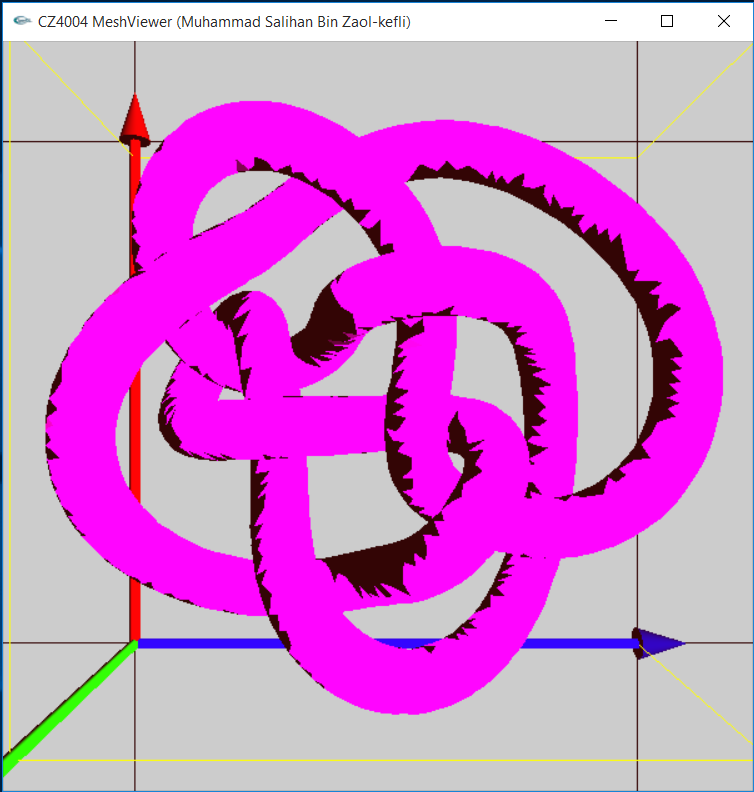
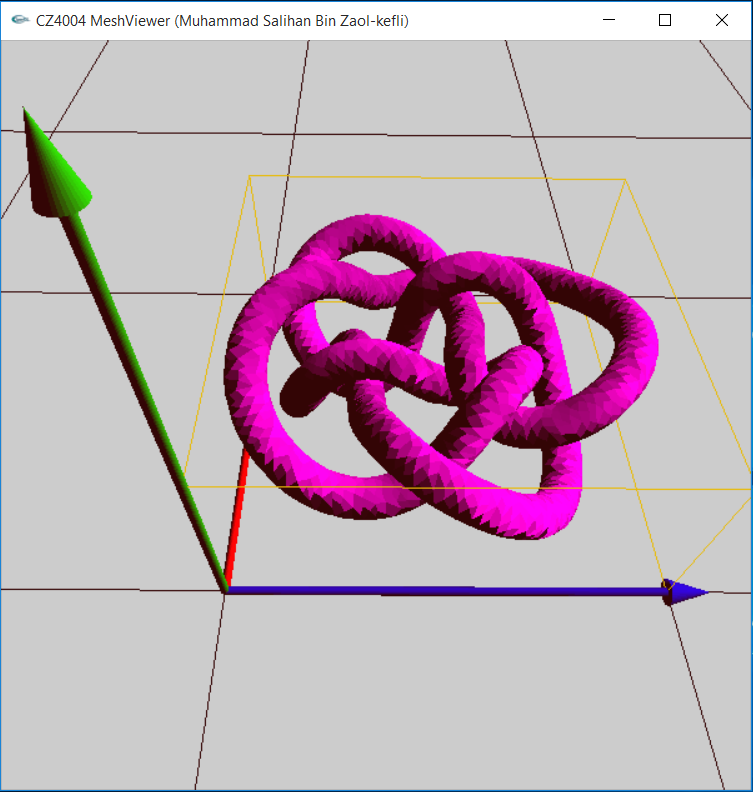
Make white_light vales to be non-adjustable and only 1.0f, rename aFaces map to adjFaces, enable GL_NORMALIZE in Flat and Smooth shading rendering, remove light brightness/intensity control, add new screenshots for flat and smooth shading

diff --git a/MyMeshViewer/Main.cpp b/MyMeshViewer/Main.cpp
@@ -39,8 +39,8 @@ void renderScene()
 	glClear(GL_COLOR_BUFFER_BIT | GL_DEPTH_BUFFER_BIT);
 
 	//Setup OpenGL lighting
-	GLfloat light_position[] = { 5.0f, 1.0f, 5.0f, 0.0f };											//light position
-	GLfloat white_light[] = { whiteLightValue, whiteLightValue, whiteLightValue, whiteLightValue };	//light color
+	GLfloat light_position[] = { 5.0f, 1.0f, 5.0f, 0.0f };		//light position
+	GLfloat white_light[] = { 1.0f, 1.0f, 1.0f, 1.0f };			//light color
 	GLfloat lmodel_ambient[] = { 1.0f, 0.1f, 0.1f, 1.0f };
 	glLightfv(GL_LIGHT0, GL_POSITION, light_position);
 	glLightfv(GL_LIGHT0, GL_DIFFUSE, white_light);
@@ -218,7 +218,7 @@ void initHEMaps()
 			HE_edges[make_pair(f->v1->index, f->v2->index)] = edge;
 
 		//add face to vector of adjacent faces for v1
-		aFaces[f->v1->index].push_back(f);
+		adjFaces[f->v1->index].push_back(f);
 
 		//2nd edge
 		HE_edge* next = new HE_edge();
@@ -242,7 +242,7 @@ void initHEMaps()
 			HE_edges[make_pair(f->v2->index, f->v3->index)] = next;
 
 		//add face to vector of adjacent faces for v2
-		aFaces[f->v2->index].push_back(f);
+		adjFaces[f->v2->index].push_back(f);
 
 		//3rd edge
 		HE_edge* prev = new HE_edge();
@@ -266,7 +266,7 @@ void initHEMaps()
 			HE_edges[make_pair(f->v3->index, f->v1->index)] = prev;
 
 		//add face to vector of adjacent faces for v3
-		aFaces[f->v3->index].push_back(f);
+		adjFaces[f->v3->index].push_back(f);
 
 		//Link up 1st, 2nd, and 3rd edges with each other
 		edge->next = next;
@@ -382,7 +382,7 @@ vector<Face*> findAdjFaces(Vertex* v)
 	}
 	*/
 
-	return aFaces[v->index];
+	return adjFaces[v->index];
 }
 
 //Function to calculate the area of each face
@@ -476,7 +476,7 @@ void clearData()
 	HE_verts.clear();
 	HE_faces.clear();
 	HE_edges.clear();
-	aFaces.clear();
+	adjFaces.clear();
 }
 
 //Function to draw grid lines on the ground which is the xy plane
@@ -683,6 +683,7 @@ void drawModelFlat()
 
 	//Use flat shading mode
 	glShadeModel(GL_FLAT);
+	glEnable(GL_NORMALIZE);
 
 	glPushMatrix();
 		glScalef(1 / max, 1 / max, 1 / max);
@@ -718,6 +719,7 @@ void drawModelSmooth()
 
 	//Use flat shading mode
 	glShadeModel(GL_SMOOTH);
+	glEnable(GL_NORMALIZE);
 
 	glPushMatrix();
 		glScalef(1 / max, 1 / max, 1 / max);
@@ -881,37 +883,31 @@ void mykey(unsigned char key, int x, int y)
 		cout << "Key '1' is pressed! Draw the bimba model" << endl;
 		filename = "TestModels/" + testModels[0];
 		init(filename);
-		whiteLightValue = 1.0f * powf(10.0f, 10.0f);
 		break;
 	case '2':
 		cout << "Key '2' is pressed! Draw the bottle model" << endl;
 		filename = "TestModels/" + testModels[1];
 		init(filename);
-		whiteLightValue = 1.0f;
 		break;
 	case '3':
 		cout << "Key '3' is pressed! Draw the bunny model" << endl;
 		filename = "TestModels/" + testModels[2];
 		init(filename);
-		whiteLightValue = 1.0f * powf(10.0f, 10.0f);
 		break;
 	case '4':
 		cout << "Key '4' is pressed! Draw the cap model" << endl;
 		filename = "TestModels/" + testModels[3];
 		init(filename);
-		whiteLightValue = 1.0f;
 		break;
 	case '5':
 		cout << "Key '5' is pressed! Draw the eight model" << endl;
 		filename = "TestModels/" + testModels[4];
 		init(filename);
-		whiteLightValue = 1.0f;
 		break;
 	case '6':
 		cout << "Key '6' is pressed! Draw the gargoyle model" << endl;
 		filename = "TestModels/" + testModels[5];
 		init(filename);
-		whiteLightValue = 1.0f;
 		break;
 	case '7':
 		cout << "Key '7' is pressed! Draw the knot model" << endl;
@@ -923,26 +919,6 @@ void mykey(unsigned char key, int x, int y)
 		cout << "Key '8' is pressed! Draw the statute model" << endl;
 		filename = "TestModels/" + testModels[7];
 		init(filename);
-		whiteLightValue = 1.0f;
-		break;
-	}
-
-	//Force the redraw function
-	glutPostRedisplay();
-}
-
-//Function to handle special keyboard input
-void mySpecial(int key, int x, int y)
-{
-	switch (key)
-	{
-	case GLUT_KEY_UP:
-		if (whiteLightValue < 1.0f * powf(10.0f, 10.0f));
-			whiteLightValue *= 100.0f;
-		break;
-	case GLUT_KEY_DOWN:
-		if (whiteLightValue > 1.0f)
-			whiteLightValue /= 100.0f;
 		break;
 	}
 

diff --git a/MyMeshViewer/include/Main.h b/MyMeshViewer/include/Main.h
@@ -39,7 +39,6 @@ static float ty = 0.0f;
 static int xform_mode = 0;
 static int obj_mode = 0;
 static int view_mode = 0;
-static float whiteLightValue = 1.0f;
 
 float minX, minY, minZ, maxX, maxY, maxZ, max;
 bool isLightEnabled = false;
@@ -95,7 +94,7 @@ vector<Normal*> perVertexNormals;
 map<pair<int, int>, HE_edge*> HE_edges;
 map<int, HE_vert*> HE_verts;
 map<int, HE_face*> HE_faces;
-map<int, vector<Face*>> aFaces;
+map<int, vector<Face*>> adjFaces;
 
 //Function prototypes
 void renderScene();
